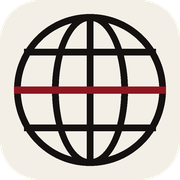
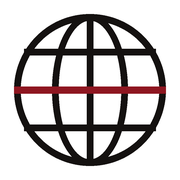
White across the board, a local clock, and an archival product label
- Paper cream gives way to pure white on the site, Base Camp and the Swish
  app. Warm rules neutralised so they do not read dirty on true white, and the
  brand wordmarks plus the favicon regenerated on white rather than cream.
- brand/localtime.js: the visitor's own clock, twice. A ticking city and time
  in the masthead, and a labelled LOCAL TIME block in the footer. No network
  call, no permission prompt, no third party: the place comes from the
  browser's own timezone, so it is zone accurate rather than town accurate.
- Each index row now carries a PRODUCT classification above its price, so the
  page reads as a catalogue. Rows held blank on his order stay blank.

diff --git a/index.html b/index.html
@@ -7,7 +7,7 @@
 <link rel="icon" href="brand/icon-globe.svg" type="image/svg+xml">
 <link rel="icon" href="brand/icon-globe-32.png" sizes="32x32" type="image/png">
 <link rel="apple-touch-icon" href="brand/icon-globe-180.png">
-<meta name="theme-color" content="#F3EFE7">
+<meta name="theme-color" content="#FFFFFF">
 <meta name="description" content="Lawrence Whitaker III. On camera, on the mic, and everything he makes in between. It started with embroidered stories on denim jackets, connecting seemingly random moments.">
 <meta property="og:title" content="Random Storytelling">
 <meta property="og:description" content="On camera, on the mic, and everything I make by hand in between.">
@@ -19,12 +19,16 @@
   @font-face{font-family:"Elza";src:url("fonts/Elza-Black.woff2") format("woff2");font-weight:900;font-display:swap}
 </style>
 <style>
-  :root{--paper:#F3EFE7;--ink:#141110;--red:#8E1620;--mute:#6E645A;--rule:#DDD5C7;--hair:#E5DDD0}
+  :root{--paper:#FFFFFF;--ink:#141110;--red:#8E1620;--mute:#6E645A;--rule:#DCDCDC;--hair:#EAEAEA}
   *{box-sizing:border-box;margin:0;padding:0}
   html{-webkit-text-size-adjust:100%;scroll-behavior:smooth}
   body{background:var(--paper);color:var(--ink);font-family:"Elza",Helvetica,Arial,sans-serif;
        font-weight:400;line-height:1.45;letter-spacing:-.03em;-webkit-font-smoothing:antialiased}
   a{color:inherit;text-decoration:none}
+  .lt{display:flex;align-items:baseline;gap:10px;padding:14px 0 12px;border-bottom:1px solid var(--hair);
+      font-size:11.5px;text-transform:uppercase;letter-spacing:.18em;font-weight:600;color:var(--mute)}
+  .lt-city{color:var(--ink);font-weight:700}
+  .lt-clock{font-variant-numeric:tabular-nums}
   .w{max-width:1180px;margin:0 auto;padding:0 28px}
   .rule{border-top:1px solid var(--hair)}
 
@@ -63,6 +67,9 @@
   .pr small{display:block;font-size:12.5px;font-weight:400;color:var(--mute);letter-spacing:-.01em;margin-top:5px}
   .pr small a{text-decoration:underline;text-decoration-color:var(--red);text-decoration-thickness:1px;text-underline-offset:4px;text-decoration-skip-ink:none}
   .pr .live{color:var(--red)}
+  .kv{display:block;margin-bottom:11px;font-size:11px;text-transform:uppercase;letter-spacing:.18em;
+      font-weight:650;color:var(--ink);line-height:1.5}
+  .kv em{display:block;font-style:normal;color:var(--mute);font-weight:600}
   .cta{display:block;width:max-content;margin:14px 0 0 auto;font-size:12.5px;font-weight:700;
        text-transform:uppercase;letter-spacing:.13em;padding-bottom:5px;
        border-bottom:2px solid var(--red);transition:.25s}
@@ -82,7 +89,7 @@
   .sheet p{margin-top:16px;max-width:560px;color:var(--mute);font-size:16.5px}
   .bigbtn{background:transparent;color:var(--ink);font-weight:700;text-transform:uppercase;letter-spacing:.16em;
           font-size:14px;padding:24px 42px;white-space:nowrap;border:1px solid var(--ink);transition:.25s}
-  .bigbtn:hover{background:var(--red);border-color:var(--red);color:#F3EFE7}
+  .bigbtn:hover{background:var(--red);border-color:var(--red);color:#FFFFFF}
   @media(max-width:760px){.sheet{grid-template-columns:1fr}.bigbtn{text-align:center}}
 
   /* note + links */
@@ -91,6 +98,11 @@
   .els{display:flex;flex-wrap:wrap;gap:0 34px;padding:22px 0 0}
   .els a{font-size:15px;font-weight:700;padding:11px 0;border-bottom:2px solid transparent}
   .els a:hover{border-color:var(--red);color:var(--red)}
+  .ltf{border-top:1px solid var(--hair);padding:26px 0 0;margin-top:34px;display:grid;gap:8px}
+  .ltf .k{font-size:11px;text-transform:uppercase;letter-spacing:.2em;color:var(--mute);font-weight:600}
+  .ltf .v{font-size:14px;letter-spacing:.06em;font-weight:600;display:flex;gap:12px;flex-wrap:wrap;align-items:baseline}
+  .ltf .t{font-variant-numeric:tabular-nums;color:var(--mute)}
+  .ltf .c{text-transform:uppercase;color:var(--ink)}
   footer{display:flex;justify-content:space-between;gap:16px;flex-wrap:wrap;
          padding:34px 0 60px;margin-top:40px;border-top:1px solid var(--rule);
          font-size:12px;color:var(--mute);text-transform:uppercase;letter-spacing:.14em;font-weight:500}
@@ -101,7 +113,12 @@
 
 <div class="w">
 
-  <div class="hero rule">
+  <div class="lt" data-localtime data-localtime-seconds hidden>
+    <span class="lt-city" data-localtime-city></span>
+    <span class="lt-clock" data-localtime-clock></span>
+  </div>
+
+  <div class="hero">
     <h1>Random<br><em>Storytelling</em></h1>
     <div class="sub">
       <p><b>Lawrence Whitaker III.</b> It started with embroidered stories on denim jackets, <b>connecting seemingly random moments.</b></p>
@@ -118,7 +135,7 @@
       <div class="n">01</div>
       <div><div class="nm"><a href="https://vybrancelabs.co/products/creatine-gummies-watermelon?utm_source=randomstorytelling&amp;utm_medium=site&amp;utm_campaign=studio_index&amp;utm_content=watermelon" target="_blank" rel="noopener">Vybrance Labs&trade;</a></div><div class="for">Clarity in motion</div></div>
       <div class="ben">Some days the words arrive late and the tank reads empty by noon. <b>Four gummies is one serving: 5g creatine, 500mg taurine, 120mcg B12.</b> The three your brain and body actually run on. Four a day, that is it.</div>
-      <div class="pr">$49.99<small>Watermelon &middot; 30 day supply</small>
+      <div class="pr"><span class="kv"><em>Product</em>Supplement</span>$49.99<small>Watermelon &middot; 30 day supply</small>
         <a class="cta" href="https://vybrancelabs.co/products/creatine-gummies-watermelon?utm_source=randomstorytelling&amp;utm_medium=site&amp;utm_campaign=studio_index&amp;utm_content=cta" target="_blank" rel="noopener">Shop creatine gummies &rarr;</a>
         <a class="cta" href="https://vybrancelabs.co/community?utm_source=randomstorytelling&amp;utm_medium=site&amp;utm_campaign=studio_index&amp;utm_content=hike_rsvp" target="_blank" rel="noopener">Adventure hike &rarr;</a></div>
     </div>
@@ -127,14 +144,14 @@
       <div class="n">02</div>
       <div><div class="nm"><a href="https://resumes.actorsaccess.com/lawrencewhitaker" target="_blank" rel="noopener">Actor</a></div></div>
       <div class="ben"></div>
-      <div class="pr">Contact<small><a href="https://docs.google.com/spreadsheets/d/1e1U3E8objQgBxJlchwm96cCpPX10MO0QR6YbripdG94/edit" target="_blank" rel="noopener">TAG Talent (TX)</a> &middot; <a href="https://docs.google.com/spreadsheets/d/1e1U3E8objQgBxJlchwm96cCpPX10MO0QR6YbripdG94/edit" target="_blank" rel="noopener">Rage Talent (CA)</a></small></div>
+      <div class="pr"><span class="kv"><em>Product</em>Representation</span>Contact<small><a href="https://docs.google.com/spreadsheets/d/1e1U3E8objQgBxJlchwm96cCpPX10MO0QR6YbripdG94/edit" target="_blank" rel="noopener">TAG Talent (TX)</a> &middot; <a href="https://docs.google.com/spreadsheets/d/1e1U3E8objQgBxJlchwm96cCpPX10MO0QR6YbripdG94/edit" target="_blank" rel="noopener">Rage Talent (CA)</a></small></div>
     </div>
 
     <div class="row">
       <div class="n">03</div>
       <div><div class="nm"><a href="https://instagram.com/craneseyeview" target="_blank" rel="noopener">Custom denim jacket</a></div><div class="for"><!-- held blank 2026-09-21 --></div></div>
       <div class="ben"><!-- Denim copy, price and collaborator line held blank on Lawrence's order 2026-09-21. Exact before values in logs/SITE_CHANGES.md and index.html.bak-2026-09-21-pre-denim. --></div>
-      <div class="pr"><!-- price and sub-line held blank 2026-09-21; the ways in stay -->
+      <div class="pr"><span class="kv"><em>Product</em>Commission</span><!-- price and sub-line held blank 2026-09-21; the ways in stay -->
         <a class="cta" href="https://instagram.com/craneseyeview" target="_blank" rel="noopener">Portfolio &rarr;</a>
         <a class="cta" href="https://buy.stripe.com/fZu28l8T313j03e8Q33ZK04" target="_blank" rel="noopener">Start a jacket &rarr;</a>
         <a class="cta" href="https://calendly.com/randomstorytelling/free-intro-call?a2=Custom%20denim%20jacket" target="_blank" rel="noopener">Free 15 minute call &rarr;</a></div>
@@ -144,7 +161,7 @@
       <div class="n">04</div>
       <div><div class="nm"><a href="/basecamp/" target="_blank" rel="noopener">Base Camp</a></div><div class="for">Find your crew &middot; Austin rooted &middot; Texas wide</div></div>
       <div class="ben">You have the idea and no cast and crew. <b>The rooms in Austin where storytellers find their people and actually make something.</b> Writers groups, showcases, panels, screenings with a Q&amp;A, the classes that level you up, and every festival worth the drive in Texas. One email a month.</div>
-      <div class="pr"><span class="live">Free</span><small>Monthly</small>
+      <div class="pr"><span class="kv"><em>Product</em>Newsletter</span><span class="live">Free</span><small>Monthly</small>
         <a class="cta" href="https://randomstorytelling.beehiiv.com/subscribe" target="_blank" rel="noopener">Get the next one &rarr;</a>
         <a class="cta" href="/basecamp/">Add the calendar &rarr;</a></div>
     </div>
@@ -153,7 +170,7 @@
       <div class="n">05</div>
       <div><div class="nm"><a href="/swish/" target="_blank" rel="noopener">Swish</a></div><div class="for"><!-- held blank 2026-09-21 --></div></div>
       <div class="ben"><!-- Swish row held to the link alone on Lawrence's order 2026-09-21: nothing is claimed here until the product page is ready to carry it. Every removed line is in logs/SITE_CHANGES.md and index.html.bak-2026-09-21-pre-swish-ben. --></div>
-      <div class="pr"><!-- price and seat line held blank 2026-09-21; the try-it link stays -->
+      <div class="pr"><span class="kv"><em>Product</em>Software</span><!-- price and seat line held blank 2026-09-21; the try-it link stays -->
         <a class="cta" href="/swish/" target="_blank" rel="noopener">Try it free, 10 shots &rarr;</a></div>
     </div>
 
@@ -161,7 +178,7 @@
       <div class="n">06</div>
       <div><div class="nm">Home Team</div><div class="for">Founder run Shopify &amp; Amazon brands</div></div>
       <div class="ben"><!-- Home Team copy held blank on Lawrence's order 2026-09-21. Exact before value in logs/SITE_CHANGES.md and index.html.bak-2026-09-21-pre-hometeam. Price and both CTAs stay live. --></div>
-      <div class="pr">$4,000 + $1,500 / mo
+      <div class="pr"><span class="kv"><em>Product</em>Service</span>$4,000 + $1,500 / mo
         <a class="cta" href="https://buy.stripe.com/28EfZb6KV4fv5ny9U73ZK02" target="_blank" rel="noopener">Book the install &rarr;</a>
         <a class="cta" href="https://calendly.com/randomstorytelling/free-intro-call" target="_blank" rel="noopener">Free 15 minute call &rarr;</a></div>
     </div>
@@ -186,11 +203,17 @@
     </div>
   </div>
 
+  <div class="ltf" data-localtime hidden>
+    <span class="k">Local time</span>
+    <span class="v"><span class="t" data-localtime-clock></span><span class="c" data-localtime-city></span></span>
+  </div>
+
   <footer>
     <span>Random Storytelling</span>
     <span><a href="https://docs.google.com/spreadsheets/d/1e1U3E8objQgBxJlchwm96cCpPX10MO0QR6YbripdG94/edit" target="_blank" rel="noopener">Lawrence Whitaker III</a></span>
   </footer>
 
 </div>
+<script src="brand/localtime.js" defer></script>
 </body>
 </html>

diff --git a/swish/css/app.css b/swish/css/app.css
@@ -6,11 +6,11 @@
 
 :root{
   /* paper and ink, the same stock as randomstorytelling.com */
-  --bg:#F3EFE7;
-  --bg-2:#EFEADF;
-  --card:#FBF8F2;
-  --card-2:#F1ECE1;
-  --line:#DDD5C7;
+  --bg:#FFFFFF;
+  --bg-2:#F7F7F7;
+  --card:#FFFFFF;
+  --card-2:#F4F4F4;
+  --line:#E4E4E4;
   --text:#141110;
   --muted:#6E645A;
   --accent:#8E1620;       /* carmine, the house red */
@@ -19,7 +19,7 @@
   --good:#2F7D5B;
   --warn:#9A7212;
   --bad:#A32430;
-  --ring:#E5DDD0;
+  --ring:#EDEDED;
   --safe-top:env(safe-area-inset-top,0px);
   --safe-bot:env(safe-area-inset-bottom,0px);
   --tab-h:64px;
@@ -43,7 +43,7 @@ strong{color:var(--text);font-weight:650}
   display:flex;align-items:center;justify-content:space-between;
   padding:calc(var(--safe-top) + 12px) 18px 12px;
   position:sticky;top:0;z-index:20;
-  background:linear-gradient(var(--bg),rgba(243,239,231,.86) 70%,transparent);
+  background:linear-gradient(var(--bg),rgba(255,255,255,.88) 70%,transparent);
 }
 .brand{display:flex;align-items:center;gap:10px}
 .logo{width:24px;height:24px;flex:none;color:var(--accent)}
@@ -62,7 +62,7 @@ strong{color:var(--text);font-weight:650}
 /* ---------- buttons ---------- */
 .btn{border:none;border-radius:14px;font-size:15px;font-weight:650;padding:13px 20px;color:var(--text);background:var(--card-2);transition:transform .08s}
 .btn:active{transform:scale(.97)}
-.btn.primary{background:var(--accent);color:#FBF8F2}
+.btn.primary{background:var(--accent);color:#FFFFFF}
 .btn.ghost{background:transparent;border:1px solid var(--line);color:var(--text)}
 .btn.big{font-size:16px;padding:15px 26px}
 
@@ -147,13 +147,13 @@ strong{color:var(--text);font-weight:650}
 .phase-chip.active{background:rgba(142,22,32,.1);color:var(--accent);border-color:rgba(142,22,32,.35)}
 .scrub-row{display:flex;align-items:center;gap:10px;padding:4px 12px 14px}
 .mini-btn{background:var(--card-2);border:none;color:var(--text);border-radius:10px;padding:8px 11px;font-size:13px;font-weight:600;min-width:44px}
-.mini-btn.on{background:var(--accent);color:#FBF8F2}
+.mini-btn.on{background:var(--accent);color:#FFFFFF}
 input[type=range]{flex:1;-webkit-appearance:none;height:4px;border-radius:4px;background:var(--ring)}
 input[type=range]::-webkit-slider-thumb{-webkit-appearance:none;width:18px;height:18px;border-radius:50%;background:var(--accent);box-shadow:0 0 0 4px rgba(142,22,32,.14)}
 
 /* ---------- coach card ---------- */
 .coach-card{display:flex;gap:12px;margin:6px 18px;padding:16px;background:var(--card);border-radius:18px;border:1px solid var(--line)}
-.coach-avatar{width:38px;height:38px;border-radius:50%;flex-shrink:0;background:var(--accent);display:grid;place-items:center;font-weight:800;color:#FBF8F2}
+.coach-avatar{width:38px;height:38px;border-radius:50%;flex-shrink:0;background:var(--accent);display:grid;place-items:center;font-weight:800;color:#FFFFFF}
 .coach-text{font-size:14.5px;line-height:1.5}
 
 /* ---------- metrics ---------- */
@@ -192,7 +192,7 @@ input[type=range]::-webkit-slider-thumb{-webkit-appearance:none;width:18px;heigh
 
 /* ---------- progress ---------- */
 .stat-row{display:grid;grid-template-columns:1fr 1fr;gap:10px;padding:4px 18px 8px}
-.stat{background:var(--card);border:1px solid var(--line);border-radius:16px;padding:14px 16px;min-width:0}
+.stat{background:var(--card);border:1px solid var(--line);box-shadow:0 1px 2px rgba(20,17,16,.04);border-radius:16px;padding:14px 16px;min-width:0}
 .stat .num{font-size:26px;font-weight:800;letter-spacing:-1px}
 .stat .lbl{font-size:12px;color:var(--muted);margin-top:2px}
 .chart-card{margin:8px 18px;background:var(--card);border:1px solid var(--line);border-radius:18px;padding:16px}
@@ -207,7 +207,7 @@ input[type=range]::-webkit-slider-thumb{-webkit-appearance:none;width:18px;heigh
 
 /* ---------- tab bar ---------- */
 .tabbar{position:fixed;bottom:0;left:0;right:0;height:calc(var(--tab-h) + var(--safe-bot));
-  padding-bottom:var(--safe-bot);display:flex;background:rgba(251,248,242,.94);
+  padding-bottom:var(--safe-bot);display:flex;background:rgba(255,255,255,.95);
   backdrop-filter:blur(16px);border-top:1px solid var(--line);z-index:30}
 .tab{flex:1;background:none;border:none;color:var(--muted);display:flex;flex-direction:column;align-items:center;justify-content:center;gap:3px;font-size:10.5px;font-weight:600}
 .tab svg{width:23px;height:23px}
@@ -225,7 +225,7 @@ input[type=range]::-webkit-slider-thumb{-webkit-appearance:none;width:18px;heigh
 .field select{background:var(--card-2);color:var(--text);border:1px solid var(--line);border-radius:10px;padding:9px 12px;font-size:14px;max-width:60%}
 .field.toggle input{width:46px;height:28px;-webkit-appearance:none;background:var(--ring);border-radius:20px;position:relative;transition:.2s}
 .field.toggle input:checked{background:var(--accent)}
-.field.toggle input::after{content:"";position:absolute;top:3px;left:3px;width:22px;height:22px;border-radius:50%;background:#FBF8F2;box-shadow:0 1px 3px rgba(20,17,16,.25);transition:.2s}
+.field.toggle input::after{content:"";position:absolute;top:3px;left:3px;width:22px;height:22px;border-radius:50%;background:#FFFFFF;box-shadow:0 1px 3px rgba(20,17,16,.25);transition:.2s}
 .field.toggle input:checked::after{left:21px}
 .field.column{flex-direction:column;align-items:stretch;gap:8px}
 .field.column select{max-width:none;width:100%}
@@ -333,7 +333,7 @@ input[type=range]::-webkit-slider-thumb{-webkit-appearance:none;width:18px;heigh
 .plan-name{font-size:16px;font-weight:720}
 .plan-blurb{font-size:13px;color:var(--muted);margin-top:2px;line-height:1.4}
 .plan-price{font-size:15px;font-weight:760;white-space:nowrap;font-variant-numeric:tabular-nums}
-.plan-buy{font-size:13.5px;font-weight:680;padding:9px 14px;border-radius:11px;background:var(--accent);color:#FBF8F2;white-space:nowrap}
+.plan-buy{font-size:13.5px;font-weight:680;padding:9px 14px;border-radius:11px;background:var(--accent);color:#FFFFFF;white-space:nowrap}
 .paywall{margin:0 18px 14px;background:rgba(142,22,32,.06);
   border:1px solid rgba(142,22,32,.28);border-radius:16px;padding:15px 16px}
 .paywall h3{font-size:15.5px;font-weight:730}

diff --git a/basecamp/index.html b/basecamp/index.html
@@ -888,11 +888,15 @@
   @font-face{font-family:"Elza";src:url("../fonts/Elza-Medium.woff2") format("woff2");font-weight:500;font-display:swap}
   @font-face{font-family:"Elza";src:url("../fonts/Elza-Bold.woff2") format("woff2");font-weight:700;font-display:swap}
   @font-face{font-family:"Elza";src:url("../fonts/Elza-Black.woff2") format("woff2");font-weight:900;font-display:swap}
-  :root{--paper:#F3EFE7;--ink:#141110;--red:#8E1620;--mute:#6E645A;--rule:#DDD5C7;--hair:#E5DDD0}
+  :root{--paper:#FFFFFF;--ink:#141110;--red:#8E1620;--mute:#6E645A;--rule:#DCDCDC;--hair:#EAEAEA}
   *{box-sizing:border-box;margin:0;padding:0}
   html{-webkit-text-size-adjust:100%}
   body{background:var(--paper);color:var(--ink);font-family:"Elza",Helvetica,Arial,sans-serif;font-weight:400;line-height:1.45;letter-spacing:-.03em;-webkit-font-smoothing:antialiased}
   a{color:inherit;text-decoration:none}
+  .lt{display:flex;align-items:baseline;gap:10px;padding:14px 0 12px;border-bottom:1px solid var(--hair);
+      font-size:11.5px;text-transform:uppercase;letter-spacing:.18em;font-weight:600;color:var(--mute)}
+  .lt-city{color:var(--ink);font-weight:700}
+  .lt-clock{font-variant-numeric:tabular-nums}
   .w{max-width:1180px;margin:0 auto;padding:0 28px}
   .top{display:flex;justify-content:space-between;align-items:baseline;gap:20px;padding:26px 0 18px;flex-wrap:wrap;border-bottom:1px solid var(--hair)}
   .mk{font-weight:900;text-transform:uppercase;font-size:14px;letter-spacing:.01em}
@@ -933,12 +937,22 @@
   .els{display:flex;flex-wrap:wrap;gap:0 34px;padding:56px 0 0}
   .els a{font-size:15px;font-weight:700;padding:11px 0;border-bottom:2px solid transparent}
   .els a:hover{border-color:var(--red);color:var(--red)}
+  .ltf{border-top:1px solid var(--hair);padding:26px 0 0;margin-top:34px;display:grid;gap:8px}
+  .ltf .k{font-size:11px;text-transform:uppercase;letter-spacing:.2em;color:var(--mute);font-weight:600}
+  .ltf .v{font-size:14px;letter-spacing:.06em;font-weight:600;display:flex;gap:12px;flex-wrap:wrap;align-items:baseline}
+  .ltf .t{font-variant-numeric:tabular-nums;color:var(--mute)}
+  .ltf .c{text-transform:uppercase;color:var(--ink)}
   footer{display:flex;justify-content:space-between;gap:16px;flex-wrap:wrap;padding:34px 0 60px;margin-top:40px;border-top:1px solid var(--rule);font-size:12px;color:var(--mute);text-transform:uppercase;letter-spacing:.14em;font-weight:500}
   footer a{text-decoration:underline;text-decoration-color:var(--red);text-decoration-thickness:1px;text-underline-offset:4px;text-decoration-skip-ink:none}
 </style>
 </head>
 <body>
 <div class="w">
+  <div class="lt" data-localtime data-localtime-seconds hidden>
+    <span class="lt-city" data-localtime-city></span>
+    <span class="lt-clock" data-localtime-clock></span>
+  </div>
+
   <div class="top">
     <a class="mk" href="/">Random Storytelling</a>
   </div>
@@ -1032,6 +1046,11 @@
     <a href="https://instagram.com/randomstorytelling" target="_blank" rel="noopener">instagram</a>
   </div>
 
+  <div class="ltf" data-localtime hidden>
+    <span class="k">Local time</span>
+    <span class="v"><span class="t" data-localtime-clock></span><span class="c" data-localtime-city></span></span>
+  </div>
+
   <footer>
     <span>Random Storytelling</span>
     <span><a href="https://docs.google.com/spreadsheets/d/1e1U3E8objQgBxJlchwm96cCpPX10MO0QR6YbripdG94/edit" target="_blank" rel="noopener">Lawrence Whitaker III</a></span>
@@ -1079,5 +1098,6 @@
   }).catch(function(){document.getElementById("count").textContent="";document.getElementById("list").innerHTML='<p class="empty">The feed did not load. Subscribe with the buttons above; your calendar app reads it directly.</p>';});
 })();
 </script>
+<script src="/brand/localtime.js" defer></script>
 </body>
 </html>

diff --git a/brand/localtime.js b/brand/localtime.js
@@ -1,0 +1,65 @@
+/* localtime.js — the visitor's own clock, in their own city.
+
+   No network call, no permission prompt, no third party. The city comes from
+   the browser's own IANA timezone, so it is accurate to the ZONE, not the
+   town: a visitor in Austin reads CHICAGO, IL because that is the zone they
+   sit in. Swapping to a real city would mean an IP lookup on every page load.
+
+   Mount points: any element with [data-localtime]. Inside it,
+   [data-localtime-clock] gets the time and [data-localtime-city] the place.
+   Fails silent: if anything throws, the block stays hidden. */
+(function () {
+  var US = {
+    "America/Chicago": "Chicago, IL", "America/New_York": "New York, NY",
+    "America/Los_Angeles": "Los Angeles, CA", "America/Denver": "Denver, CO",
+    "America/Phoenix": "Phoenix, AZ", "America/Detroit": "Detroit, MI",
+    "America/Anchorage": "Anchorage, AK", "Pacific/Honolulu": "Honolulu, HI",
+    "America/Indiana/Indianapolis": "Indianapolis, IN", "America/Boise": "Boise, ID",
+    "America/Toronto": "Toronto, ON", "America/Vancouver": "Vancouver, BC",
+    "America/Mexico_City": "Mexico City, MX"
+  };
+
+  function place() {
+    try {
+      var tz = Intl.DateTimeFormat().resolvedOptions().timeZone || "";
+      if (US[tz]) return US[tz];
+      var leaf = tz.split("/").pop();
+      return leaf ? leaf.replace(/_/g, " ") : "";
+    } catch (e) { return ""; }
+  }
+
+  function clock(now, withSeconds) {
+    var opts = { hour: "2-digit", minute: "2-digit", hour12: true };
+    if (withSeconds) opts.second = "2-digit";
+    try { return now.toLocaleTimeString("en-US", opts); } catch (e) { return ""; }
+  }
+
+  var hosts = [].slice.call(document.querySelectorAll("[data-localtime]"));
+  if (!hosts.length) return;
+
+  var where = place();
+  hosts.forEach(function (h) {
+    var c = h.querySelector("[data-localtime-city]");
+    if (!c) return;
+    if (where) c.textContent = where; else c.remove();
+  });
+
+  function tick() {
+    var now = new Date();
+    hosts.forEach(function (h) {
+      var t = h.querySelector("[data-localtime-clock]");
+      if (!t) return;
+      var s = clock(now, h.hasAttribute("data-localtime-seconds"));
+      if (s) t.textContent = s;
+    });
+  }
+
+  tick();
+  hosts.forEach(function (h) { h.hidden = false; });
+
+  var id = setInterval(tick, 1000);
+  document.addEventListener("visibilitychange", function () {
+    clearInterval(id);
+    if (!document.hidden) { tick(); id = setInterval(tick, 1000); }
+  });
+})();

diff --git a/swish/js/app.js b/swish/js/app.js
@@ -709,7 +709,7 @@ function drawTrend(canvas, scores) {
   scores.forEach((v, i) => ctx.lineTo(xs(i), ys(v)));
   ctx.strokeStyle = "#8E1620"; ctx.lineWidth = 2.5 * dpr; ctx.lineJoin = "round"; ctx.stroke();
   // dots
-  scores.forEach((v, i) => { ctx.beginPath(); ctx.arc(xs(i), ys(v), 3 * dpr, 0, 7); ctx.fillStyle = "#FBF8F2"; ctx.strokeStyle = "#8E1620"; ctx.lineWidth = 1.5 * dpr; ctx.fill(); ctx.stroke(); });
+  scores.forEach((v, i) => { ctx.beginPath(); ctx.arc(xs(i), ys(v), 3 * dpr, 0, 7); ctx.fillStyle = "#FFFFFF"; ctx.strokeStyle = "#8E1620"; ctx.lineWidth = 1.5 * dpr; ctx.fill(); ctx.stroke(); });
 }
 
 /* ----------------- drills ----------------- */

diff --git a/swish/index.html b/swish/index.html
@@ -3,7 +3,7 @@
 <head>
 <meta charset="UTF-8" />
 <meta name="viewport" content="width=device-width, initial-scale=1.0, viewport-fit=cover, maximum-scale=1.0, user-scalable=no" />
-<meta name="theme-color" content="#F3EFE7" />
+<meta name="theme-color" content="#FFFFFF" />
 <meta name="apple-mobile-web-app-capable" content="yes" />
 <meta name="apple-mobile-web-app-status-bar-style" content="default" />
 <meta name="apple-mobile-web-app-title" content="Swish" />
